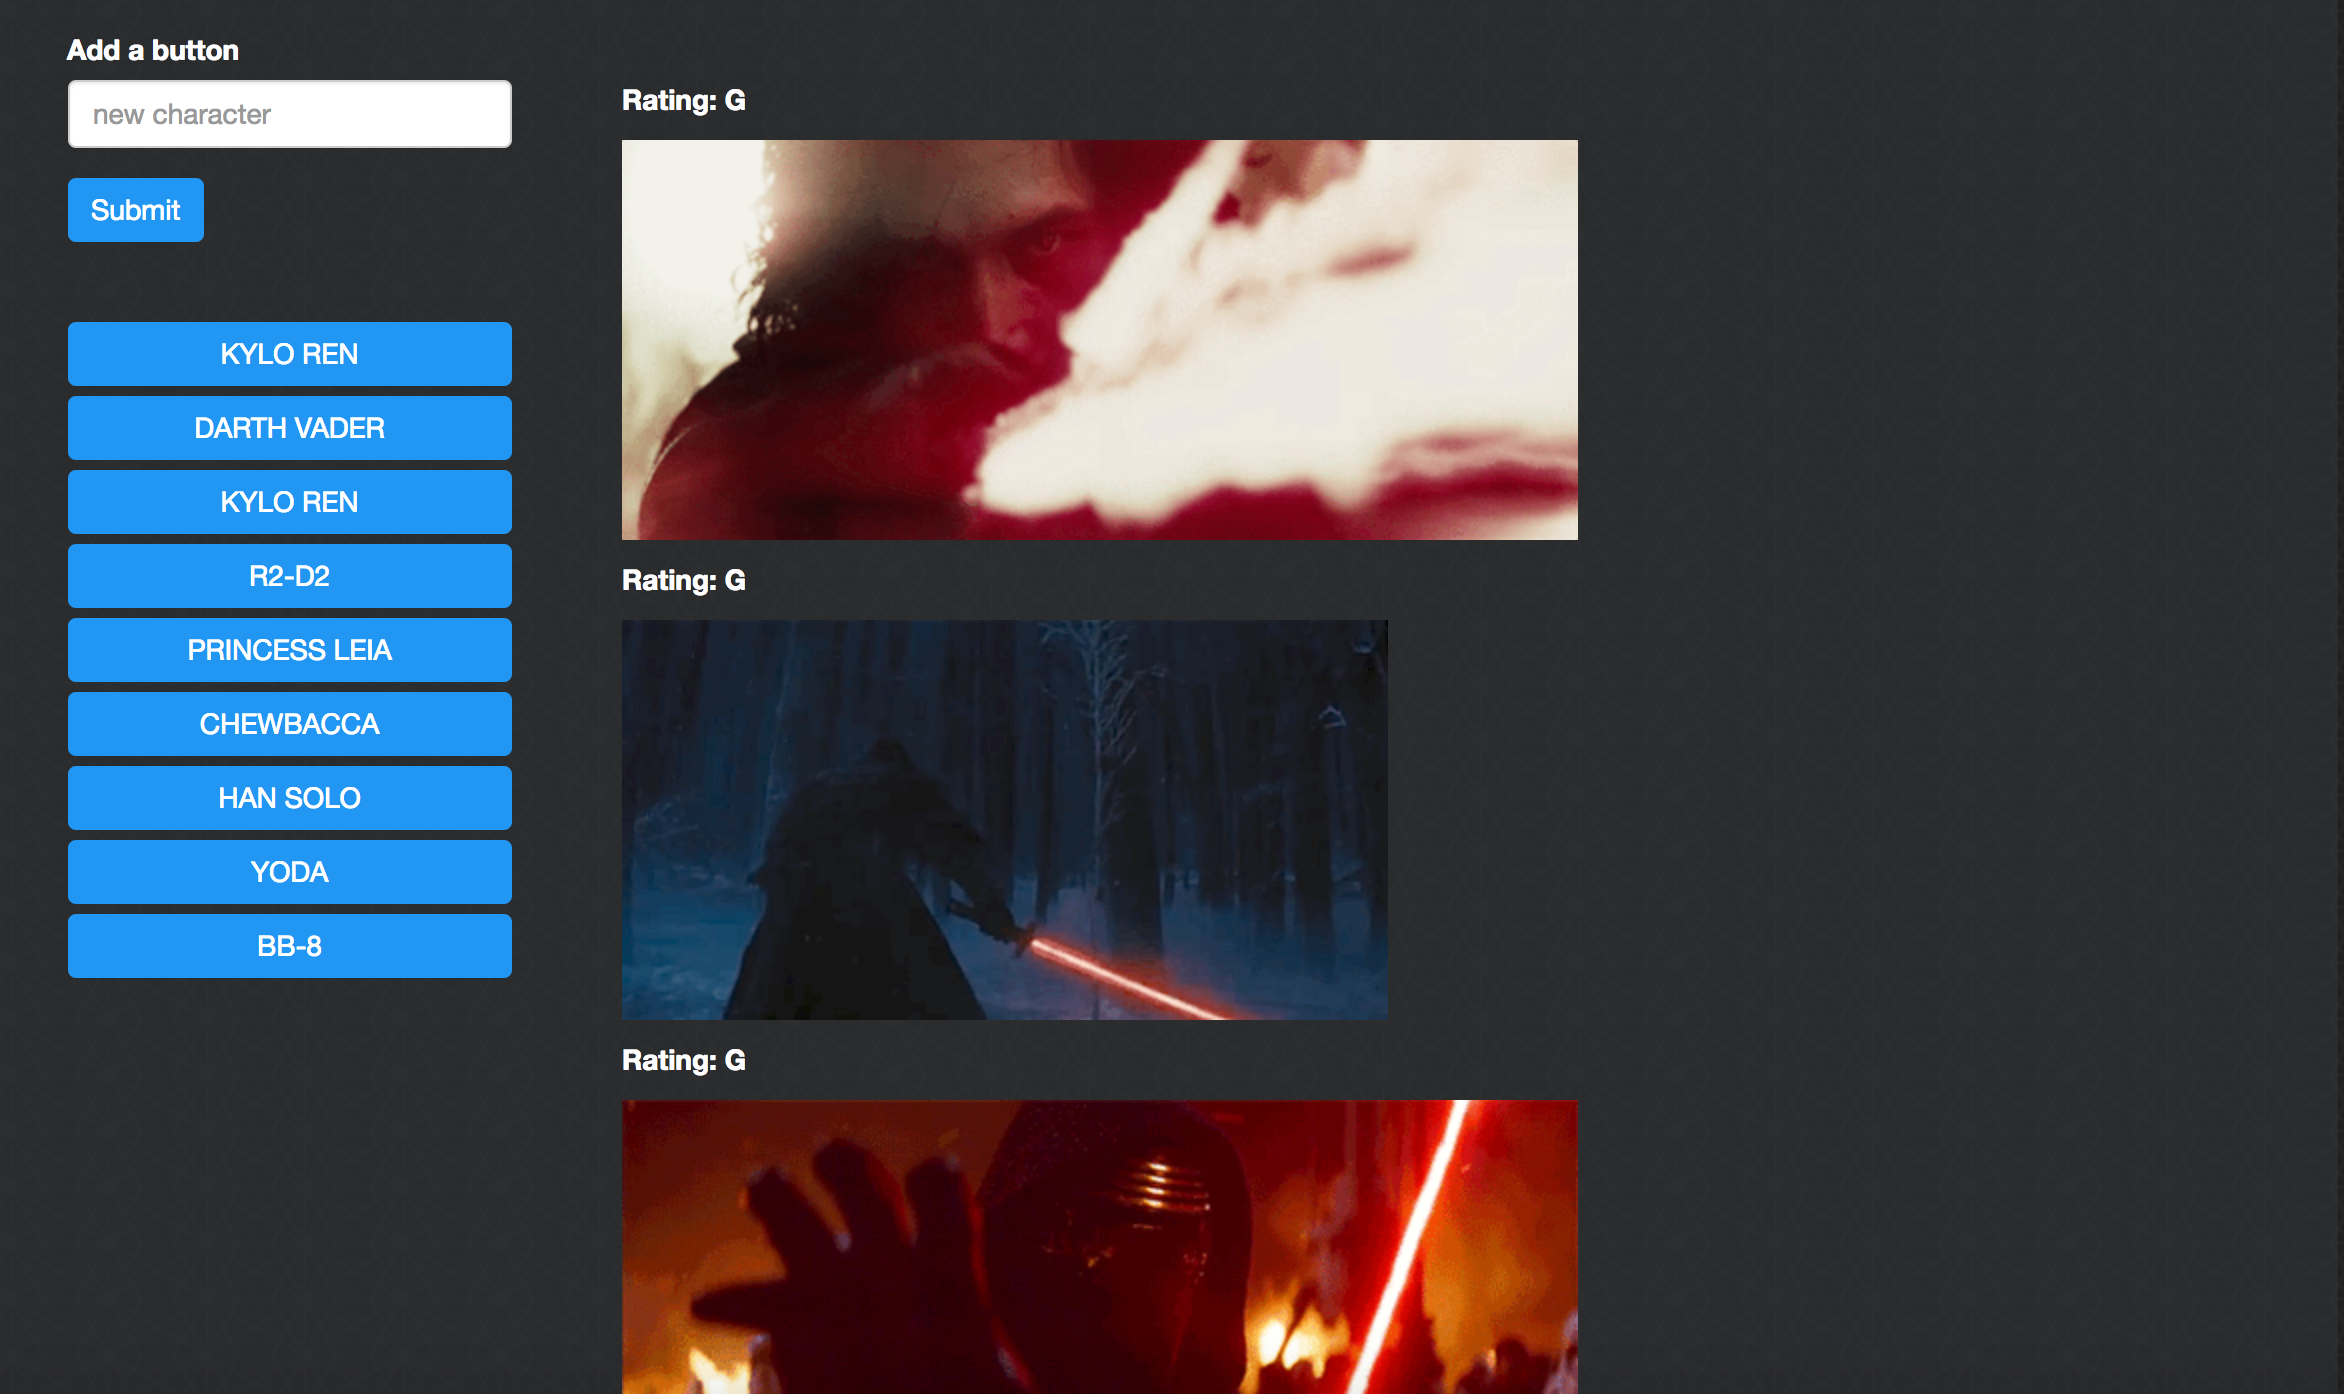
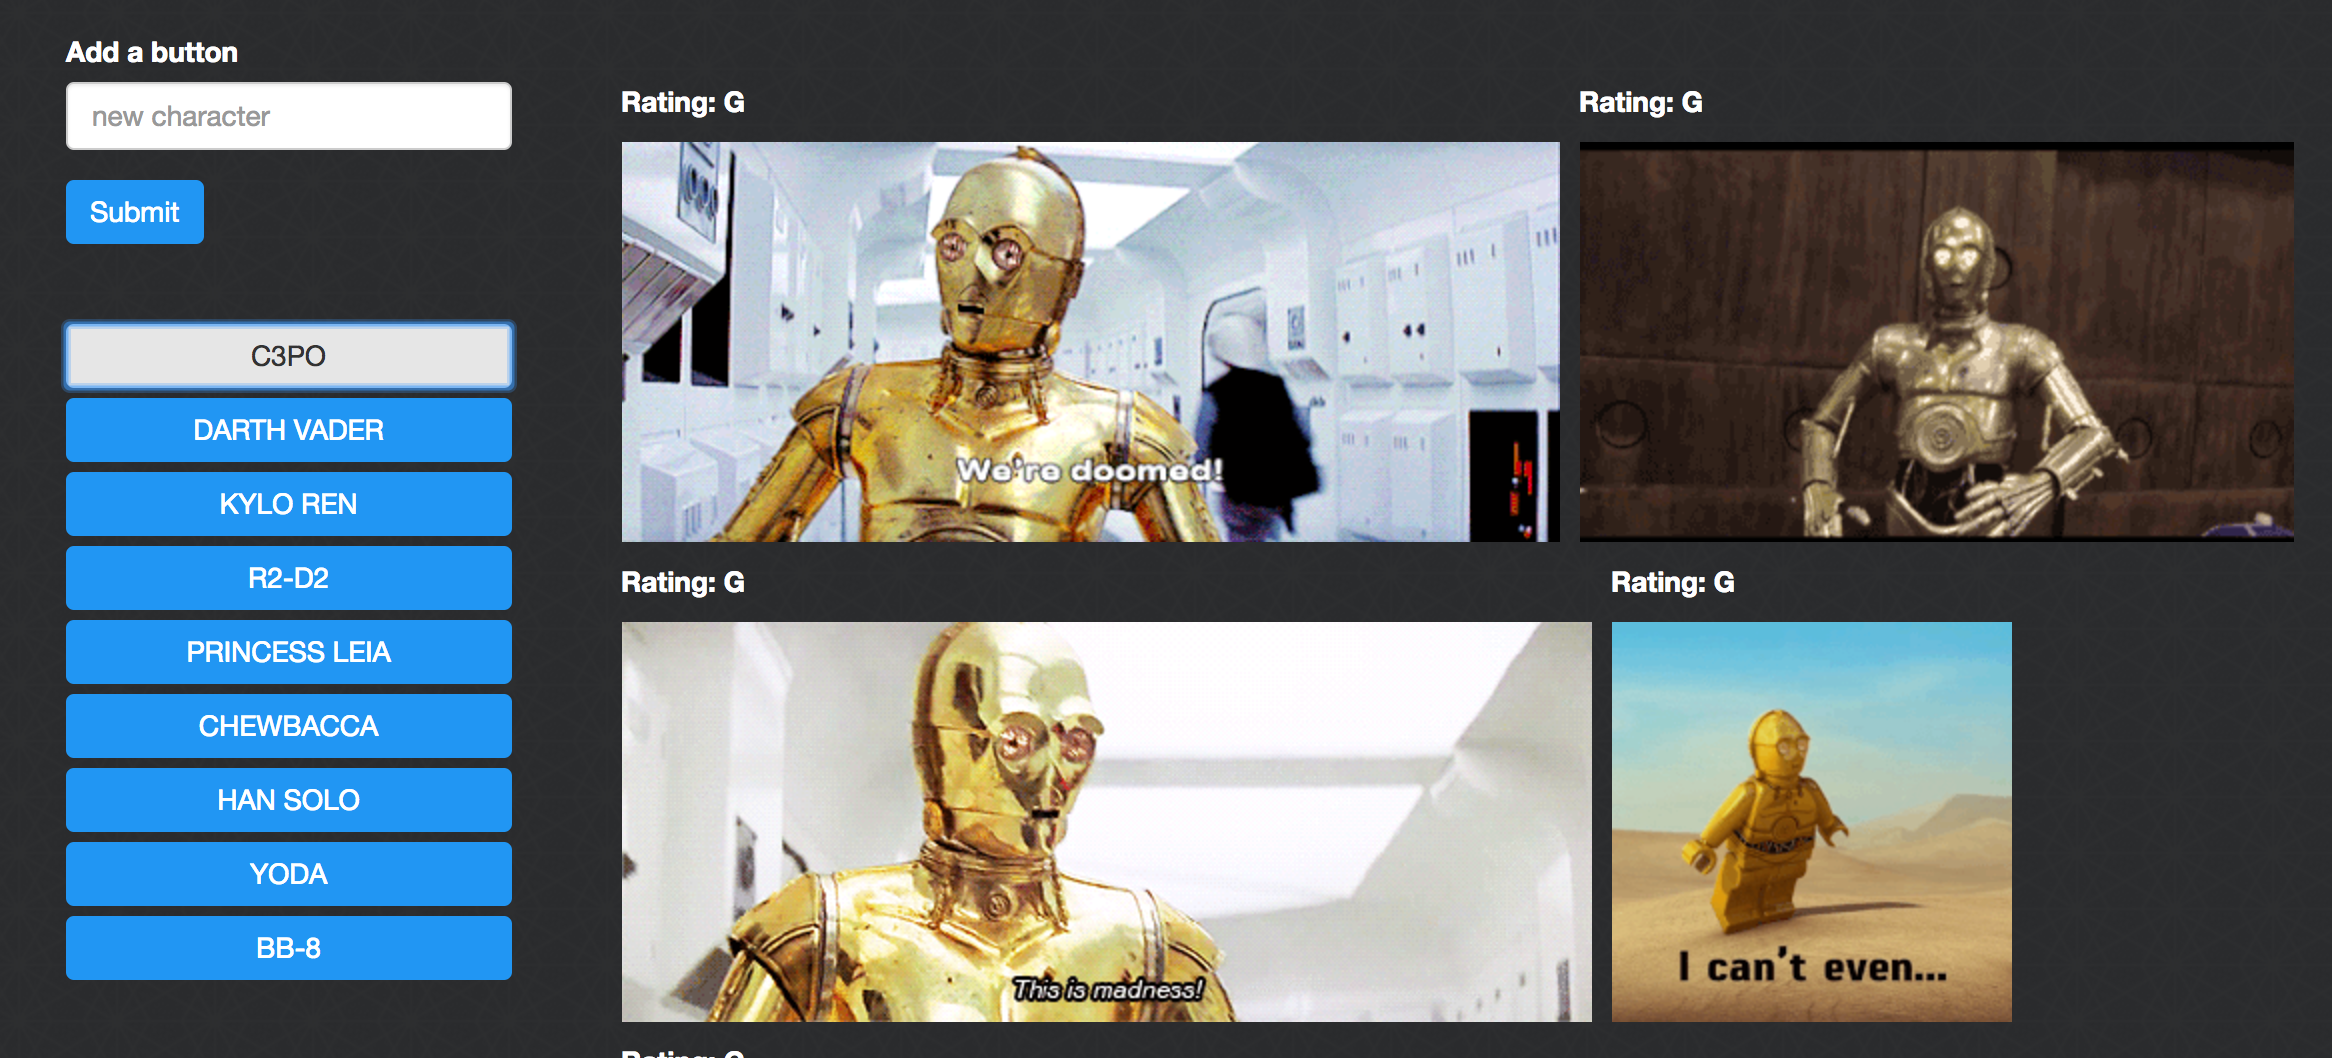
guide

diff --git a/README.md b/README.md
@@ -21,13 +21,13 @@ These were guidelines I had to follow in order to complete the app.
 
 ![landingPage](assets/images/landingPage.png)
 
-#### Selecting a characters
+#### Selecting a character
 
 ![selectPage](assets/images/selectPage.png)
 
 #### Adding a new button to the list
 
-For this example, I added Kylo Ren to the list. 
+For this example, I added C3PO to the list. 
 
 ![newButtonPage](assets/images/newButtonPage.png)
 
